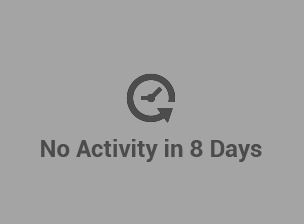
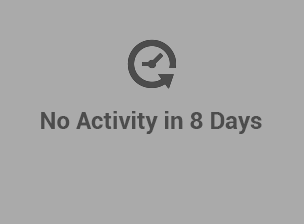
fix #263 and fix #266 and fix #268

Changed region(s): [[0.1184, 0.1562, 0.8586, 0.5938], [0.1184, 0.625, 0.8586, 0.7188]]

diff --git a/ShnergleApp/PostRequest.m b/ShnergleApp/PostRequest.m
@@ -80,10 +80,25 @@
 
 - (void)connectionDidFinishLoading:(NSURLConnection *)connection {
     id responseArg;
-    if ([@"image" isEqualToString : responseType]) @try {responseArg = [UIImage imageWithData:response]; } @catch (NSException *e) {
+    if ([@"image" isEqualToString : responseType]) {
+        @try {
+            NSString *firstChar = [[[NSString alloc] initWithData:response encoding:NSUTF8StringEncoding] substringToIndex:1];
+            if ([@"{" isEqualToString:firstChar] || [@"null" isEqualToString:firstChar] || [@"" isEqualToString:firstChar]) @throw [NSException exceptionWithName:nil reason:nil userInfo:nil];
+            responseArg = [UIImage imageWithData:response];
+        } @catch (NSException *e) {
+            responseArg = [UIImage imageNamed:@"No_activity.png"];
         }
-    else if ([@"string" isEqualToString : responseType]) responseArg = [[NSString alloc] initWithData:response encoding:NSUTF8StringEncoding];
-    else responseArg = [NSJSONSerialization JSONObjectWithData:response options:NSJSONReadingAllowFragments error:nil];
+    } else if ([@"string" isEqualToString : responseType]) responseArg = [[NSString alloc] initWithData:response encoding:NSUTF8StringEncoding];
+    else {
+        responseArg = [NSJSONSerialization JSONObjectWithData:response options:NSJSONReadingAllowFragments error:nil];
+        if ([responseArg isKindOfClass:[NSDictionary class]] && responseArg[@"traceback"]) {
+            responseArg = nil;
+            dispatch_async(dispatch_get_main_queue(), ^{
+                UIAlertView *alert = [[UIAlertView alloc] initWithTitle:@"An error occured while trying to load!" message:nil delegate:nil cancelButtonTitle:@"OK" otherButtonTitles:nil];
+                [alert show];
+            });
+        }
+    }
     [Crashlytics setObjectValue:[[NSString alloc] initWithData:response encoding:NSUTF8StringEncoding] forKey:@"lastResponseString"];
     [Crashlytics setObjectValue:responseArg forKey:@"lastResponseParsed"];
     NSMethodSignature *methodSig = [[responseObject class] instanceMethodSignatureForSelector:responseCallback];

diff --git a/ShnergleApp/LoginScreenController.m b/ShnergleApp/LoginScreenController.m
@@ -153,13 +153,12 @@
 
 - (void)viewDidDisappear:(BOOL)animated {
     self.buttonLoginLogout = nil;
-
     [super viewDidDisappear:animated];
 }
 
 - (void)alert {
-    UIActionSheet *alert = [[UIActionSheet alloc] initWithTitle:@"Connection failed!" delegate:nil cancelButtonTitle:@"OK" destructiveButtonTitle:nil otherButtonTitles:nil];
-    [alert showInView:[[self view] window]];
+    UIAlertView *alert = [[UIAlertView alloc] initWithTitle:@"Connection failed!" message:nil delegate:nil cancelButtonTitle:@"OK" otherButtonTitles:nil];
+    [alert show];
 }
 
 @end
